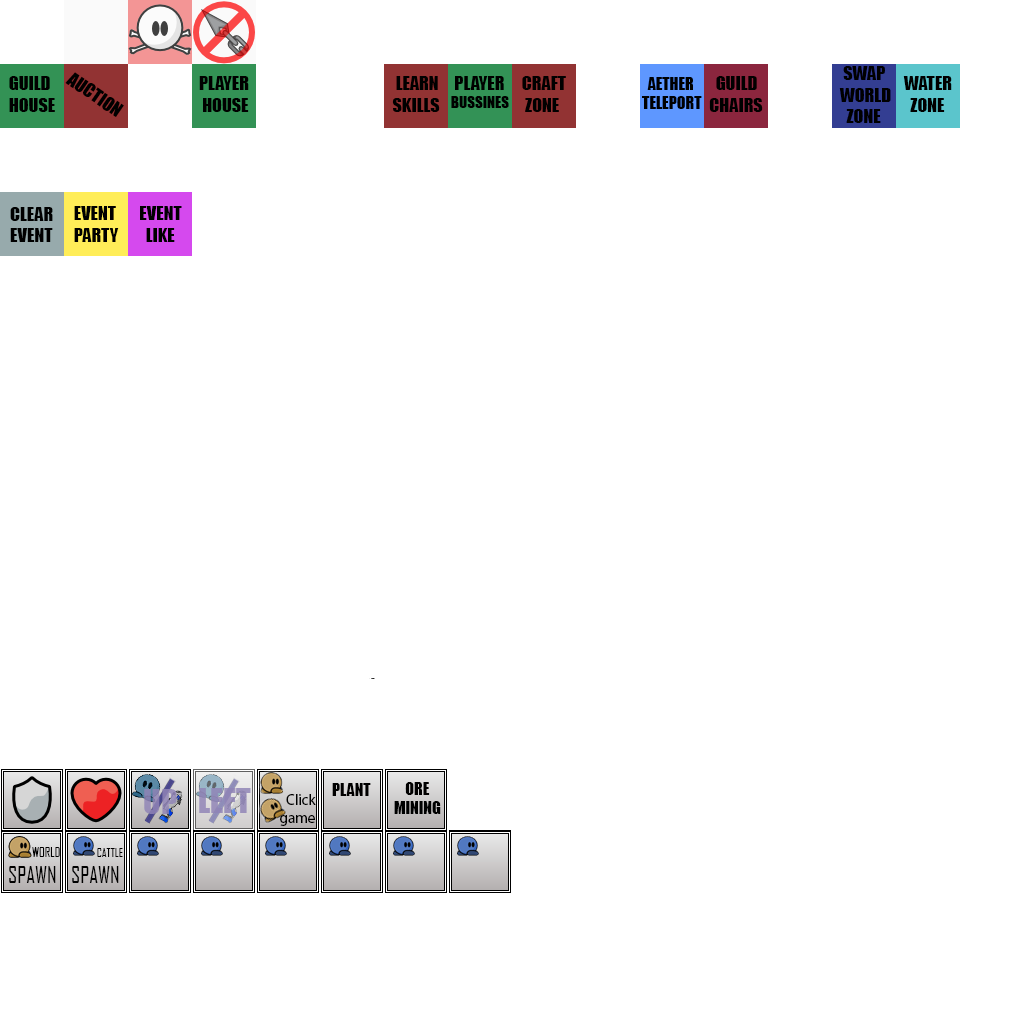
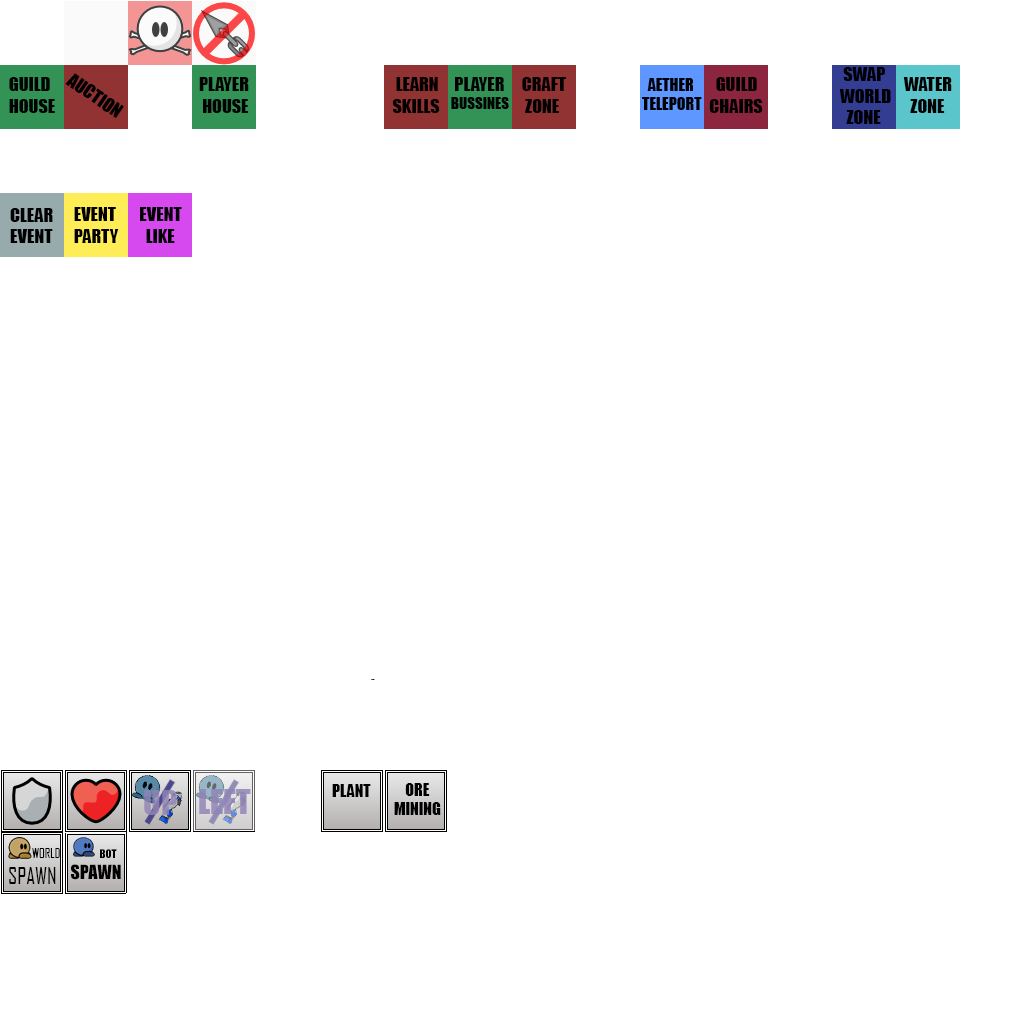
remove clickgame & update entities

diff --git a/src/game/server/gamemodes/mod.cpp b/src/game/server/gamemodes/mod.cpp
@@ -6,7 +6,6 @@
 #include <game/server/gamecontext.h>
 
 #include "../entities/npcwall.h"
-#include "../entities/games/clicktee.h"
 #include "../logicworld/logicwall.h"
 #include "../entities/jobitems.h"
 
@@ -43,12 +42,6 @@ bool CGameControllerMOD::OnEntity(int Index, vec2 Pos)
 	if(IGameController::OnEntity(Index, Pos))
 		return true;
 
-	if(Index == ENTITY_CLICKGAME)
-	{
-		new ClickTee(&GS()->m_World, Pos);
-		return true;
-	}
-
 	if(Index == ENTITY_NPC_WALLUP)
 	{
 		new CNPCWall(&GS()->m_World, Pos, false);
@@ -84,11 +77,4 @@ bool CGameControllerMOD::OnEntity(int Index, vec2 Pos)
 			new CJobItems(&GS()->m_World, ItemID, Level, Pos, 1, Health);	
 	}
 	return false;
-}
-
-void CGameControllerMOD::RespawnedClickEvent()
-{
-	// мини игра клик тее
-	for(ClickTee *pClick = (ClickTee*) GS()->m_World.FindFirst(CGameWorld::ENTTYPE_CLICKGAME); pClick; pClick = (ClickTee*) pClick->TypeNext())
-		pClick->SpawnedClick();
 }

diff --git a/src/game/server/entities/character.cpp b/src/game/server/entities/character.cpp
@@ -10,7 +10,6 @@
 #include "projectile.h"
 
 #include <game/server/mmocore/questai.h>
-#include "games/clicktee.h"
 #include "snapfull.h"
 #include "jobitems.h"
 
@@ -941,16 +940,6 @@ bool CCharacter::InteractiveHammer(vec2 Direction, vec2 ProjStartPos)
 	// подбор предмета
 	if (GS()->TakeItemCharacter(m_pPlayer->GetCID()))
 		return true;
-
-	// мини игра клик тее
-	ClickTee *pClick = (ClickTee*)GameWorld()->ClosestEntity(m_Pos, 180, CGameWorld::ENTTYPE_CLICKGAME, 0);
-	if(pClick && pClick->IsSpawned() && !GS()->Collision()->IntersectLine(ProjStartPos, pClick->GetPos(), NULL, NULL))
-	{
-		SetEmote(EMOTE_ANGRY, 1);
-		pClick->TakeDamage(1, m_pPlayer->GetCID(), m_Core.m_Vel);
-		GS()->CreateHammerHit(pClick->GetPos());
-		m_ReloadTimer = Server()->TickSpeed()/3;
-	}
 
 	// работа
 	{

diff --git a/src/game/server/gameworld.h b/src/game/server/gameworld.h
@@ -31,13 +31,13 @@ public:
 		ENTTYPE_DUNGEONKEYDOOR,
 		ENTTYPE_FINDQUEST,
 		ENTTYPE_NPCWALL,
-		ENTTYPE_CLICKGAME,
 		ENTTYPE_JOBITEMS,
 		ENTTYPE_SNAPEFFECT,
 		ENTTYPE_MOBS,
 		ENTTYPE_EYES,
 		ENTTYPE_EYESWALL,
 		ENTTYPE_DECOHOUSE,
+
 		// skills
 		ENTYPE_SKILLTURRETHEART,
 		ENTYPE_HEARTLIFE,

diff --git a/src/game/server/gamecontext.cpp b/src/game/server/gamecontext.cpp
@@ -1044,10 +1044,6 @@ void CGS::OnTick()
 
 	OnTickLocalWorld();
 	Mmo()->OnTick();
-
-	// обновить точки Click Click
-	if (Server()->CheckWorldTime(6, 59))
-		m_pController->RespawnedClickEvent();
 }
 
 // Таймер в OnTick-=

diff --git a/src/game/server/gamemodes/mod.h b/src/game/server/gamemodes/mod.h
@@ -14,8 +14,6 @@ public:
 
 	virtual void Tick();
 	virtual bool OnEntity(int Index, vec2 Pos);
-
-	virtual void RespawnedClickEvent();
 	virtual void CreateLogic(int Type, int Mode, vec2 Pos, int ParseID);
 
 };

diff --git a/src/game/server/gamecontroller.h b/src/game/server/gamecontroller.h
@@ -99,7 +99,6 @@ public:
 	void OnReset();
 
 	// виртуал аномаль
-	virtual void RespawnedClickEvent() = 0;
 	virtual void CreateLogic(int Type, int Mode, vec2 Pos, int Health) = 0;
 	
 	// general

diff --git a/src/game/mapitems.h b/src/game/mapitems.h
@@ -33,8 +33,7 @@ enum
 	ENTITY_HEALTH_1,
 	ENTITY_NPC_WALLUP,
 	ENTITY_NPC_WALLLEFT,
-	ENTITY_CLICKGAME,
-	ENTITY_PLANTS,
+	ENTITY_PLANTS = 6,
 	ENTITY_MINER,
 	ENTITY_SPAWN = 17,
 	ENTITY_SPAWN_MOBS,
